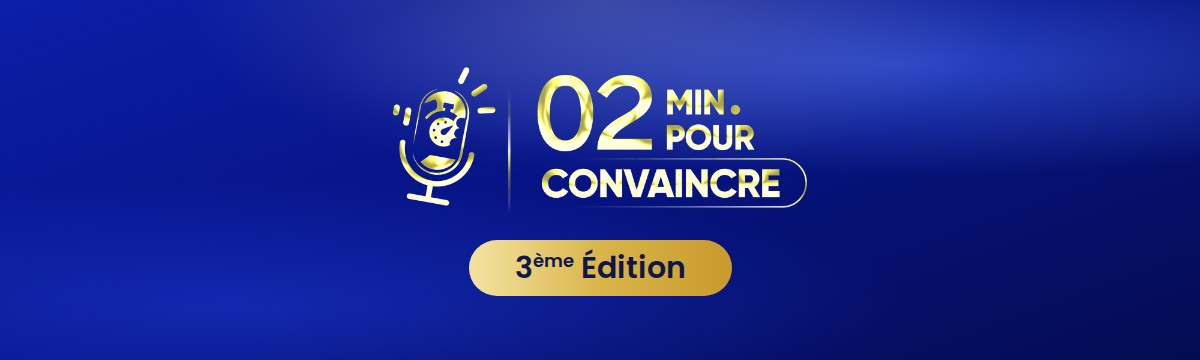
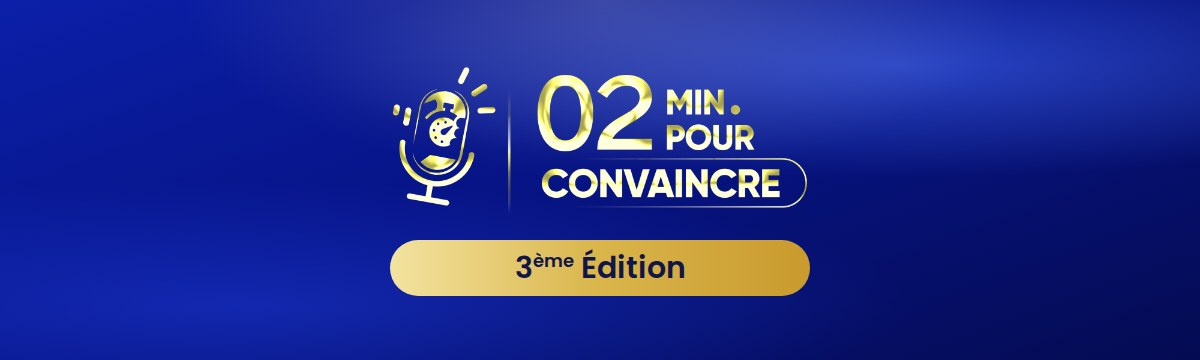
E-mails liste d'attente : badge pleine largeur, textes plus élégants, réseaux sociaux
Claude-Session: https://claude.ai/code/session_01F8np9tRxhfCRNNLp2MeqNs

Changed region(s): [[0.3083, 0.6417, 0.4317, 0.825], [0.5858, 0.6417, 0.6783, 0.825]]

diff --git a/netlify/lib/liste-attente.js b/netlify/lib/liste-attente.js
@@ -5,6 +5,7 @@
 //   NETLIFY_API_TOKEN        jeton d'accès personnel Netlify, pour lire les inscriptions du formulaire
 //   SITE_ID                  fourni par Netlify (ou NETLIFY_SITE_ID en secours)
 const candidature = require("../../content/pages/candidature.json");
+const site = require("../../content/site.json");
 
 const FORM_NAME = "liste-attente-candidature";
 const SITE_URL = "https://2minpourconvaincre.com";
@@ -17,9 +18,11 @@ function expediteur() {
   return `Deux Minutes Pour Convaincre <${from.replace(/^.*<|>$/g, "")}>`;
 }
 
+const RESEAUX = (site.contact.reseauxSociaux.plateformes || []).filter((r) => r.url);
+
 const echappe = (s) => String(s || "").replace(/[&<>"]/g, (c) => ({ "&": "&amp;", "<": "&lt;", ">": "&gt;", '"': "&quot;" }[c]));
 
-function gabarit(titre, paragraphes, bouton) {
+function gabarit(titre, paragraphes, bouton, accroche) {
   // Charte v2 : bandeau en image (Gmail ne recolore jamais les images, même en mode sombre),
   // corps en couleurs neutres qui restent lisibles quand la messagerie inverse les couleurs.
   const html = `<!doctype html><html lang="fr"><head><meta charset="utf-8"><meta name="color-scheme" content="light dark"><meta name="supported-color-schemes" content="light dark"></head>
@@ -29,36 +32,47 @@ function gabarit(titre, paragraphes, bouton) {
   <tr><td style="padding:0;line-height:0;background:#071487"><img src="${SITE_URL}/assets/img/email/entete-2mpc-3e-edition.jpg" width="600" alt="Deux Minutes Pour Convaincre · 3ème édition" style="display:block;width:100%;max-width:600px;height:auto;border:0"></td></tr>
   <tr><td style="padding:30px 32px 8px;font-family:Arial,Helvetica,sans-serif;color:#1d1f33">
     <h1 style="margin:0 0 18px;font-size:24px;line-height:1.25;font-weight:700;color:#071487">${titre}</h1>
-    ${paragraphes.map((p) => `<p style="margin:0 0 14px;font-size:16px;line-height:1.6;color:#1d1f33">${p}</p>`).join("")}
+    ${paragraphes.map((p) => `<p style="margin:0 0 14px;font-size:16px;line-height:1.6;color:#1d1f33;text-align:justify">${p}</p>`).join("")}
   </td></tr>
+  ${accroche ? `<tr><td style="padding:6px 32px 14px;font-family:Georgia,'Times New Roman',serif;font-size:19px;line-height:1.45;font-style:italic;color:#b8892a">${accroche}</td></tr>` : ""}
   ${bouton ? `<tr><td style="padding:10px 32px 8px"><a href="${bouton.lien}" style="text-decoration:none"><img src="${SITE_URL}/assets/img/email/${bouton.image}" width="${bouton.largeur}" height="51" alt="${bouton.texte}" style="display:block;border:0;width:${bouton.largeur}px;height:51px;font-family:Arial,Helvetica,sans-serif;font-size:16px;font-weight:700;color:#071487"></a></td></tr>` : ""}
-  <tr><td style="padding:22px 32px 28px;font-family:Arial,Helvetica,sans-serif;font-size:12px;line-height:1.5;color:#6b6f85;border-top:1px solid #eceef4">
+  <tr><td style="padding:26px 32px 6px;font-family:Arial,Helvetica,sans-serif;font-size:15px;line-height:1.5;color:#1d1f33;text-align:center;border-top:1px solid #eceef4">
+    Suivez-nous sur nos réseaux pour ne rien manquer de l'aventure.
+  </td></tr>
+  <tr><td align="center" style="padding:10px 32px 24px"><table role="presentation" cellpadding="0" cellspacing="0" border="0"><tr>
+    ${RESEAUX.map((r) => `<td style="padding:0 6px"><a href="${r.url}" style="text-decoration:none"><img src="${SITE_URL}/assets/img/email/reseau-${r.nom.toLowerCase()}.png" width="40" height="40" alt="${r.nom}" style="display:block;border:0;width:40px;height:40px"></a></td>`).join("")}
+  </tr></table></td></tr>
+  <tr><td style="padding:18px 32px 26px;font-family:Arial,Helvetica,sans-serif;font-size:12px;line-height:1.5;color:#6b6f85;text-align:center;border-top:1px solid #eceef4">
     Vous recevez cet e-mail car vous vous êtes inscrit(e) à la liste d'attente sur <a href="${SITE_URL}" style="color:#071487">${SITE_URL.replace("https://", "")}</a>.<br>Une création de La Muse Éloquente.
   </td></tr>
 </table></td></tr></table></body></html>`;
-  const text = [titre, "", ...paragraphes.map((p) => p.replace(/<[^>]+>/g, "")), bouton ? `\n${bouton.texte} : ${bouton.lien}` : "", "", "Une création de La Muse Éloquente."].join("\n");
+  const text = [titre, "", ...paragraphes.map((p) => p.replace(/<[^>]+>/g, "")), accroche ? `\n${accroche}` : "", bouton ? `\n${bouton.texte} : ${bouton.lien}` : "", "", "Suivez-nous pour ne rien manquer de l'aventure :", ...RESEAUX.map((r) => `${r.nom} : ${r.url}`), "", "Une création de La Muse Éloquente."].join("\n");
   return { html, text };
 }
 
 function emailConfirmation(prenom) {
+  const p = echappe(prenom);
   return {
-    subject: "Vous êtes sur la liste d'attente : 3ème édition",
-    ...gabarit(`Merci ${echappe(prenom) || ""}, c'est noté !`.replace(" ,", ","), [
-      `Vous êtes bien inscrit(e) sur la liste d'attente de la 3ème édition de Deux Minutes Pour Convaincre.`,
-      `Les candidatures ouvrent le <strong>${candidature.dateOuvertureCandidatures}</strong>. Nous vous écrirons ce jour-là pour vous prévenir.`,
-      `En attendant, préparez-vous : la candidature se fait en vidéo, deux minutes sur un thème de votre choix, pour nous convaincre.`,
-    ], { texte: "Découvrir la candidature", lien: PAGE_CANDIDATURE, image: "bouton-decouvrir-la-candidature.png", largeur: 291 }),
+    subject: "Votre place est réservée · 3ème édition de Deux Minutes Pour Convaincre",
+    ...gabarit(p ? `${p}, votre place est réservée.` : "Votre place est réservée.", [
+      `Merci d'avoir rejoint la liste d'attente de la 3ème édition de Deux Minutes Pour Convaincre, la scène qui révèle les orateurs.`,
+      `Le <strong>${candidature.dateOuvertureCandidatures}</strong>, les candidatures ouvriront. Vous serez parmi les premiers à le savoir : nous vous écrirons ce jour-là.`,
+      `D'ici là, commencez à préparer votre voix. Cette année, tout commence en vidéo : deux minutes, un thème de votre choix, et une seule mission, convaincre.`,
+    ], { texte: "Découvrir la candidature", lien: PAGE_CANDIDATURE, image: "bouton-decouvrir-la-candidature.png", largeur: 291 },
+    "Et si la prochaine voix révélée était la vôtre ?"),
   };
 }
 
 function emailOuverture(prenom) {
+  const p = echappe(prenom);
   return {
-    subject: "C'est ouvert : candidatez à la 3ème édition !",
-    ...gabarit(`${echappe(prenom) ? echappe(prenom) + ", les" : "Les"} candidatures sont ouvertes !`, [
-      `Le moment est venu : les candidatures pour la 3ème édition de Deux Minutes Pour Convaincre sont ouvertes.`,
-      `Envoyez-nous une vidéo de deux minutes, sur un thème de votre choix, pour nous convaincre. Vous avez jusqu'au <strong>${candidature.dateLimiteCandidatures}</strong>.`,
+    subject: "La scène vous attend : les candidatures sont ouvertes",
+    ...gabarit(p ? `${p}, la scène vous attend.` : "La scène vous attend.", [
+      `Le moment est venu. Les candidatures de la 3ème édition de Deux Minutes Pour Convaincre sont officiellement ouvertes.`,
+      `Une vidéo de deux minutes, sur le thème de votre choix. Une idée, une conviction, votre voix. Vous avez jusqu'au <strong>${candidature.dateLimiteCandidatures}</strong> pour nous convaincre.`,
       `À la clé : le Grand Prix de la Francophonie, une semaine en France pour le lauréat.`,
-    ], { texte: "Je candidate", lien: PAGE_CANDIDATURE, image: "bouton-je-candidate.png", largeur: 181 }),
+    ], { texte: "Je candidate", lien: PAGE_CANDIDATURE, image: "bouton-je-candidate.png", largeur: 181 },
+    "Deux minutes. Une scène. À vous de jouer."),
   };
 }
 
